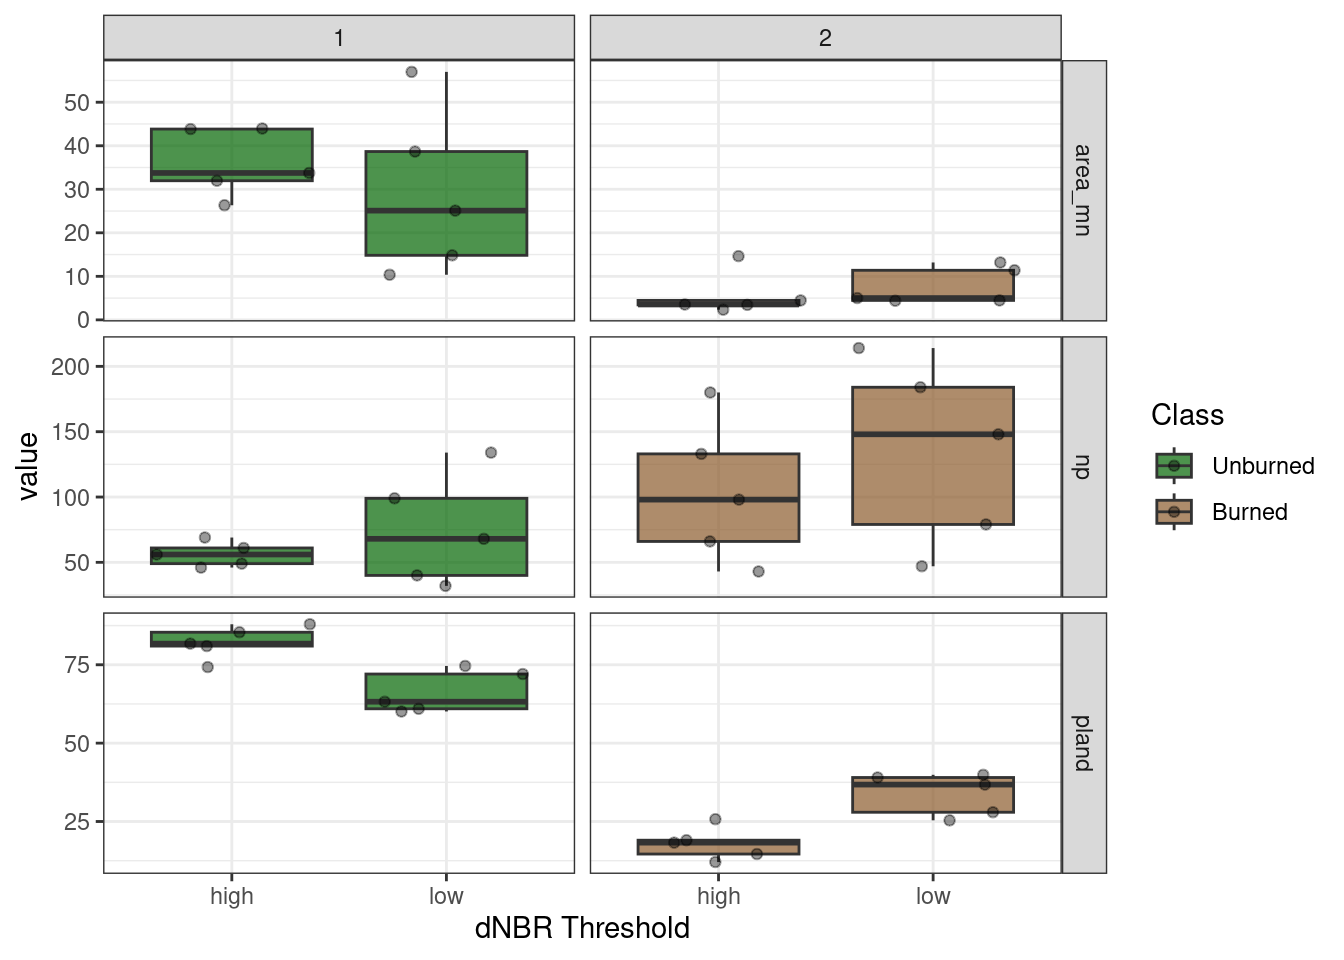
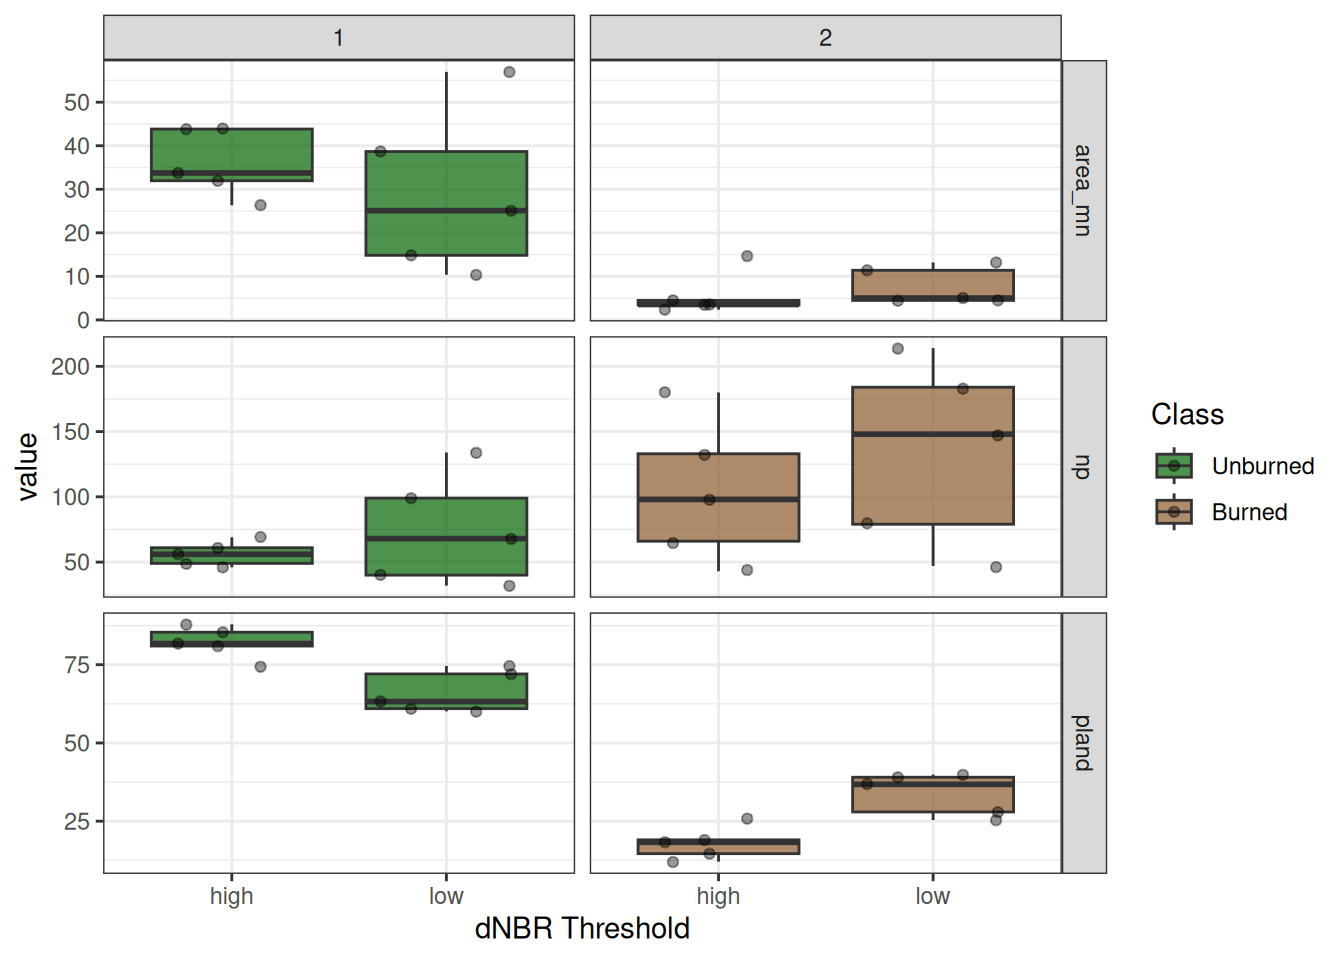
fix typos and math formula

diff --git a/index.html b/index.html
@@ -183,17 +183,17 @@ window.Quarto = {
 
 <section id="introducing-landscape-patterns" class="level1">
 <h1>Introducing landscape patterns</h1>
-<p>Landscape patterns and their quantification has received considerable attention since the early 1980’s. The quantification of landscape patterns came from the need to objectively describe landscapes that humans assess subjectively as, for example, “clumpy”, “dispersed”, “random”, “diverse”, “fragmented”, or “connected” (<span class="citation" data-cites="gergel2017">Gergel and Turner (<a href="#ref-gergel2017" role="doc-biblioref">2017</a>)</span>). Quantification of pattern is fundamental to many of the relationships we seek to understand in landscape ecology, because they emphasize the interactions among spatial patterns and ecological processes. Therefore, a basic familiarity with the most commonly used ways to quantify these patterns is extremely important (<span class="citation" data-cites="gergel2017">Gergel and Turner (<a href="#ref-gergel2017" role="doc-biblioref">2017</a>)</span>). In general, we refer to these as <strong>landscape metrics</strong>. Landscape metrics allow us to objectively describe landscape patterns at various spatial scales based on certain observable features, which enable analyses such as:</p>
+<p>Landscape patterns and their quantification have received considerable attention since the early 1980s. The quantification of landscape patterns came from the need to objectively describe landscapes that humans assess subjectively as, for example, “clumpy”, “dispersed”, “random”, “diverse”, “fragmented”, or “connected” (<span class="citation" data-cites="gergel2017">Gergel and Turner (<a href="#ref-gergel2017" role="doc-biblioref">2017</a>)</span>). Quantification of pattern is fundamental to many of the relationships we seek to understand in landscape ecology, because they emphasize the interactions among spatial patterns and ecological processes. Therefore, a basic familiarity with the most commonly used ways to quantify these patterns is extremely important (<span class="citation" data-cites="gergel2017">Gergel and Turner (<a href="#ref-gergel2017" role="doc-biblioref">2017</a>)</span>). In general, we refer to these as <strong>landscape metrics</strong>. Landscape metrics allow us to objectively describe landscape patterns at various spatial scales based on certain observable features, which enable analyses such as:</p>
 <ul>
 <li>Assessment of landscape pattern changes over time</li>
 <li>Making future predictions regarding landscape pattern changes</li>
-<li>Determining if two landscape differ based on their patterns</li>
-<li>Evaluating alternative lands management strategies in terms of the landscape patterns that may result</li>
+<li>Determining if two landscapes differ based on their patterns</li>
+<li>Evaluating alternative land management strategies in terms of the landscape patterns that may result</li>
 <li>Determining if a certain pattern is characteristic of a specific disturbance</li>
 </ul>
-<p>In particular, in this lab we will take advantage of both R- and python-based libraries to objectively quantify landscape patterns to answer specific research questions. Both these libraries are inspired by <em>FRAGSTATS</em> (<span class="citation" data-cites="mcgarigal1995">McGarigal (<a href="#ref-mcgarigal1995" role="doc-biblioref">1995</a>)</span>). More in details, we will explore the use of landscape metrics to compare spatial patterns created by 5 different fires (<a href="#fig-fires" class="quarto-xref">Figure&nbsp;6</a>). Furthermore, we will focus on comparing spatial patterns of fires of different severity to see how they produce different spatial responses on the landscape.</p>
-<p>We mentioned that landscape metrics can be calculated at different spatial scales. In general, we recognize three distinct levels of organization: <strong>patch</strong>, <strong>class</strong>, and <strong>landscape</strong>. Path-level metrics refer to metrics calculated over a single contiguous unit, for example a single group of neighboring pixels belonging to the same group (e.g.&nbsp;coniferous land cover). Class-level metrics represent metrics that are averaged across all patches belonging to the same broader category. For instance, calculating the class-level “patch area” of a landscape characterized by 10 coniferous patches, means calculating the individual patch area of each coniferous patch and averaging their values. Finally, metrics calculated at the landscape level are summary aggregates of patch- or class-level metric regardless of the individual classes.</p>
-<p>Another important concept to understand is <strong>neighboring</strong>. When working with landscape metrics, individual pixels and their neighbors are both important. Take for example <a href="#fig-nn" class="quarto-xref">Figure&nbsp;1</a>, we are working with the central pixel marked with a cross. How do we define a uniform patch or region? Do we consider only the pixels north-south and west-east, or do we also consider the diagonals? This is important because by changing the neighboring rule we change how patches, and therefore metrics, are interpreted and calculated. For example, using a 4-neighboring rule, the patch would have an areas of 5, whereas using an 8-neighboring rule it would have an area of 9!</p>
+<p>In particular, in this lab we will take advantage of both R- and python-based libraries to objectively quantify landscape patterns to answer specific research questions. Both these libraries are inspired by <em>FRAGSTATS</em> (<span class="citation" data-cites="mcgarigal1995">McGarigal (<a href="#ref-mcgarigal1995" role="doc-biblioref">1995</a>)</span>). In more detail, we will explore the use of landscape metrics to compare spatial patterns created by 5 different fires (<a href="#fig-fires" class="quarto-xref">Figure&nbsp;6</a>). Furthermore, we will focus on comparing spatial patterns of fires of different severity to see how they produce different spatial responses on the landscape.</p>
+<p>We mentioned that landscape metrics can be calculated at different spatial scales. In general, we recognize three distinct levels of organization: <strong>patch</strong>, <strong>class</strong>, and <strong>landscape</strong>. Patch-level metrics refer to metrics calculated over a single contiguous unit, for example a single group of neighboring pixels belonging to the same group (e.g.&nbsp;coniferous land cover). Class-level metrics represent metrics that are averaged across all patches belonging to the same broader category. For instance, calculating the class-level “patch area” of a landscape characterized by 10 coniferous patches, means calculating the individual patch area of each coniferous patch and averaging their values. Finally, metrics calculated at the landscape level are summary aggregates of patch- or class-level metrics regardless of the individual classes.</p>
+<p>Another important concept to understand is <strong>neighboring</strong>. When working with landscape metrics, individual pixels and their neighbors are both important. Take for example <a href="#fig-nn" class="quarto-xref">Figure&nbsp;1</a>, we are working with the central pixel marked with a cross. How do we define a uniform patch or region? Do we consider only the pixels north-south and west-east, or do we also consider the diagonals? This is important because by changing the neighboring rule we change how patches, and therefore metrics, are interpreted and calculated. For example, using a 4-neighboring rule, the patch would have an area of 5, whereas using an 8-neighboring rule it would have an area of 9!</p>
 <div id="fig-nn" class="quarto-float quarto-figure quarto-figure-center anchored">
 <figure class="quarto-float quarto-float-fig figure">
 <div aria-describedby="fig-nn-caption-0ceaefa1-69ba-4598-a22c-09a6ac19f8ca">
@@ -204,7 +204,7 @@ Figure&nbsp;1: Illustration of 2 neighboring rules: (left) 4-neighbors, (right) 
 </figcaption>
 </figure>
 </div>
-<p>Note that one core assumption that these and other methods take is that the input data source is a 2-dimensional (2D) <strong>categorical raster</strong>. A categorical raster is a raster product that describes homogeneous landscape features with integer numbers (<a href="#fig-lands" class="quarto-xref">Figure&nbsp;2</a>). However, it is often the case that you’d need to convert your <strong>continuous raster</strong> product into a categorical raster. The simplest way to do it is to define a threshold value where pixels above or below such threshold are assigned a class or another. Conversion is a crucial step in the calculation of landscape patterns, because the selection of the threshold value would affect the quantification of the landscape patterns of interest. We will talk more about thresholding later on.</p>
+<p>Note that one core assumption that these and other methods take is that the input data source is a 2-dimensional (2D) <strong>categorical raster</strong>. A categorical raster is a raster product that describes homogeneous landscape features with integer numbers (<a href="#fig-lands" class="quarto-xref">Figure&nbsp;2</a>). However, it is often the case that you’d need to convert your <strong>continuous raster</strong> product into a categorical raster. The simplest way to do it is to define a threshold value where pixels above or below such threshold are assigned to one class or another. Conversion is a crucial step in the calculation of landscape patterns, because the selection of the threshold value would affect the quantification of the landscape patterns of interest. We will talk more about thresholding later on.</p>
 <div id="fig-lands" class="quarto-float quarto-figure quarto-figure-center anchored">
 <figure class="quarto-float quarto-float-fig figure">
 <div aria-describedby="fig-lands-caption-0ceaefa1-69ba-4598-a22c-09a6ac19f8ca">
@@ -268,7 +268,7 @@ Figure&nbsp;5: Selecting the landscape metrics
 </section>
 <section id="exploring-basic-landscape-metrics" class="level1">
 <h1>Exploring basic landscape metrics</h1>
-<p>Here, we will calculate landscape metrics from a categorical fire severity map using both R- and python-based solution. In R we are using the <code>landscapemetrics</code> library (<span class="citation" data-cites="hesselbarth2019">Hesselbarth et al. (<a href="#ref-hesselbarth2019" role="doc-biblioref">2019</a>)</span>), in python <code>pylandstats</code> (<span class="citation" data-cites="bosch2019">Bosch (<a href="#ref-bosch2019" role="doc-biblioref">2019</a>)</span>). Our objective is to describe landscape patterns created by 5 fire events of varying severity in Greater Yellowstone. Let’s start by importing libraries and data. In the following chunks, only the R code is evaluated because is more user-friendly than the python alternative as of today.</p>
+<p>Here, we will calculate landscape metrics from a categorical fire severity map using both R- and python-based solutions. In R we are using the <code>landscapemetrics</code> library (<span class="citation" data-cites="hesselbarth2019">Hesselbarth et al. (<a href="#ref-hesselbarth2019" role="doc-biblioref">2019</a>)</span>), in python <code>pylandstats</code> (<span class="citation" data-cites="bosch2019">Bosch (<a href="#ref-bosch2019" role="doc-biblioref">2019</a>)</span>). Our objective is to describe landscape patterns created by 5 fire events of varying severity in Greater Yellowstone. Let’s start by importing libraries and data. In the following chunks, only the R code is evaluated because it is more user-friendly than the python alternative as of today.</p>
 <div class="cell">
 <details class="code-fold">
 <summary>Code</summary>
@@ -314,7 +314,7 @@ Figure&nbsp;5: Selecting the landscape metrics
 <span id="cb2-11"><a href="#cb2-11" aria-hidden="true" tabindex="-1"></a>flagged <span class="ot">&lt;-</span> <span class="fu">lapply</span>(fires, <span class="cf">function</span>(f) {</span>
 <span id="cb2-12"><a href="#cb2-12" aria-hidden="true" tabindex="-1"></a>  r <span class="ot">&lt;-</span> <span class="fu">rast</span>(f)</span>
 <span id="cb2-13"><a href="#cb2-13" aria-hidden="true" tabindex="-1"></a>  <span class="fu">NAflag</span>(r) <span class="ot">&lt;-</span> <span class="dv">99</span></span>
-<span id="cb2-14"><a href="#cb2-14" aria-hidden="true" tabindex="-1"></a>  <span class="fu">crs</span>(r) <span class="ot">&lt;-</span> <span class="st">'epsg:32612'</span>  <span class="co"># manually assing CRS because originally missing</span></span>
+<span id="cb2-14"><a href="#cb2-14" aria-hidden="true" tabindex="-1"></a>  <span class="fu">crs</span>(r) <span class="ot">&lt;-</span> <span class="st">'epsg:32612'</span>  <span class="co"># manually assign CRS because originally missing</span></span>
 <span id="cb2-15"><a href="#cb2-15" aria-hidden="true" tabindex="-1"></a>  <span class="fu">levels</span>(r) <span class="ot">&lt;-</span> <span class="fu">c</span>(<span class="st">"nodata"</span>, <span class="st">"unburned"</span>, <span class="st">"burned"</span>)</span>
 <span id="cb2-16"><a href="#cb2-16" aria-hidden="true" tabindex="-1"></a>  <span class="fu">return</span>(r)</span>
 <span id="cb2-17"><a href="#cb2-17" aria-hidden="true" tabindex="-1"></a>})</span>
@@ -345,19 +345,19 @@ Figure&nbsp;6: Map of 5 fires in Greater Yellowstone of different severity
 <span id="cb3-2"><a href="#cb3-2" aria-hidden="true" tabindex="-1"></a>flagged[[<span class="dv">1</span>]]</span></code><button title="Copy to Clipboard" class="code-copy-button"><i class="bi"></i></button></pre></div>
 </details>
 <div class="cell-output cell-output-stdout">
-<pre><code>class       : SpatRaster 
-dimensions  : 165, 165, 1  (nrow, ncol, nlyr)
+<pre><code>class       : SpatRaster
+size        : 165, 165, 1  (nrow, ncol, nlyr)
 resolution  : 30, 30  (x, y)
 extent      : 0, 4950, 0, 4950  (xmin, xmax, ymin, ymax)
-coord. ref. : WGS 84 / UTM zone 12N (EPSG:32612) 
-source      : fire_1_high.tif 
-categories  : category 
-name        : fire_1_high 
-min value   :          NA 
-max value   :          NA </code></pre>
+coord. ref. : WGS 84 / UTM zone 12N (EPSG:32612)
+source      : fire_1_high.tif
+categories  : category
+name        : fire_1_high
+min value   :          ? 
+max value   :          ? </code></pre>
 </div>
 </div>
-<p>Note how we have 2 classes and a “nodata” class. Class 1 represents unburned areas and class 2 represents burned areas. Class 99 is our nodata class. Now that we have some basic information on the landscape, we should check that everything is right. That is, check that the coordinate reference system (CRS) is right, and that we have the right number of classes. This is pretty straighforward. You would notice that the rasters have a CRS = EPSG:32612. In python you can check the CRS using <code>src.spatial_ref</code>. In R, the <code>landscapemetrics</code> package offers the <code>check_landscape</code> function. So just type <code>check_landscape(flagged[[1]])</code> to see if the first raster is ready to go.</p>
+<p>Note how we have 2 classes and a “nodata” class. Class 1 represents unburned areas and class 2 represents burned areas. Class 99 is our nodata class. Now that we have some basic information on the landscape, we should check that everything is right. That is, check that the coordinate reference system (CRS) is right, and that we have the right number of classes. This is pretty straightforward. You would notice that the rasters have a CRS = EPSG:32612. In python you can check the CRS using <code>src.spatial_ref</code>. In R, the <code>landscapemetrics</code> package offers the <code>check_landscape</code> function. So just type <code>check_landscape(flagged[[1]])</code> to see if the first raster is ready to go.</p>
 <div class="cell">
 <details class="code-fold">
 <summary>Code</summary>
@@ -371,8 +371,8 @@ max value   :          NA </code></pre>
 <p>We see that the raster is ready to go! You can also iteratively check every layer using a loop.</p>
 <section id="list-available-metrics" class="level2">
 <h2 class="anchored" data-anchor-id="list-available-metrics">List available metrics</h2>
-<p>The <code>landscapemetrics</code> package includes a function to show you all available metrics and filter them according to the characteristics of the landscape they describe. For help, have a look at the help page of the <code>list_lsm()</code> function. You would see the acronym and full name of all the available metrics, the type, and the level they are applied to. For example. we can calculate metrics at the <code>patch</code>-, <code>class</code>-, or <code>landscape</code> level. The syntax is pretty simple. All metrics start with <code>lsm_</code>, followed by the level (<code>p/c/l</code>), and the function name. Some of these metrics have other parameters that can be passed (e.g.&nbsp;neighboring rule). In some cases, legacy parameters are carried forward, so you will end up with metrics that have both a <code>neighbors</code> and <code>direction</code> parameters. They mean the same thing, but for legacy purposes they are retained to this point. In case, give the same value to both to be sure they are interpreted as you would expect.</p>
-<p>With <code>pylandstats</code> is a bit more tricky. You’d need to explore the online documentation or the properties of a <code>Landscape</code> object as it is generated using <code>landscape = pls.Landscape()</code>. By using <code>dir(landscape)</code> you can see the list of available properties associated with the object. However, for a more detailed description, refer to the <a href="https://pylandstats.readthedocs.io/en/v2.3.0/index.html">online documentation</a>.</p>
+<p>The <code>landscapemetrics</code> package includes a function to show you all available metrics and filter them according to the characteristics of the landscape they describe. For help, have a look at the help page of the <code>list_lsm()</code> function. You would see the acronym and full name of all the available metrics, the type, and the level they are applied to. For example, we can calculate metrics at the <code>patch</code>-, <code>class</code>-, or <code>landscape</code> level. The syntax is pretty simple. All metrics start with <code>lsm_</code>, followed by the level (<code>p/c/l</code>), and the function name. Some of these metrics have other parameters that can be passed (e.g.&nbsp;neighboring rule). In some cases, legacy parameters are carried forward, so you will end up with metrics that have both a <code>neighbors</code> and a <code>direction</code> parameter. They mean the same thing, but for legacy purposes they are retained to this point. In that case, give the same value to both to be sure they are interpreted as you would expect.</p>
+<p>With <code>pylandstats</code> it is a bit more tricky. You’d need to explore the online documentation or the properties of a <code>Landscape</code> object as it is generated using <code>landscape = pls.Landscape()</code>. By using <code>dir(landscape)</code> you can see the list of available properties associated with the object. However, for a more detailed description, refer to the <a href="https://pylandstats.readthedocs.io/en/v2.3.0/index.html">online documentation</a>.</p>
 </section>
 <section id="metric-calculation" class="level2">
 <h2 class="anchored" data-anchor-id="metric-calculation">Metric calculation</h2>
@@ -405,7 +405,7 @@ max value   :          NA </code></pre>
 # ℹ 105 more rows</code></pre>
 </div>
 </div>
-<p>Here we see that the two functions output the area associated to each patch in the first landscape. In total, we have 115 patches identified using a 8-neighboring rule. Note that the python output is 0-indexed, whereas the R output is 1-indexed. The area values are unitless, so care must be taken when interpreting these metrics (depends on the CRS). We also see that there is a <code>class</code> column. This matches the length of our classes (1-2), so within each class, we have a certain number of patches. In particular, 49 patches for class 1 and 66 for class 2.</p>
+<p>Here we see that the two functions output the area associated to each patch in the first landscape. In total, we have 115 patches identified using an 8-neighboring rule. Note that the python output is 0-indexed, whereas the R output is 1-indexed. The area values are unitless, so care must be taken when interpreting these metrics (depends on the CRS). We also see that there is a <code>class</code> column. This matches the length of our classes (1-2), so within each class, we have a certain number of patches. In particular, 49 patches for class 1 and 66 for class 2.</p>
 <p>A great feature about the R library is that all metrics are returned in the same format. You will always have a tibble with the same number of columns and naming such that you can easily combine the output of different metrics into a single dataframe. In python, it’s a bit more complicated to do as values are either returned as dataframes or constants.</p>
 <p>What if we wanted to extract multiple metrics at a time? That’s another easy task! We can use the <code>calculate_lsm</code> function in the <code>landscapemetrics</code> package to calculate multiple metrics for a specific “level” and “type” (as defined by <code>lsm_list()</code>) or we can specify the <code>what</code> parameter for an ad-hoc list of metrics of interest.</p>
 <div class="cell">
@@ -483,13 +483,13 @@ max value   :          NA </code></pre>
 </section>
 <section id="work-on-your-own" class="level2">
 <h2 class="anchored" data-anchor-id="work-on-your-own">Work on your own</h2>
-<p>Now that you have a sense of how landscape metrics work and how they can be calculated, it’s your time to explore some of these metrics in more depth! You are now tasked to quantify fire patterns using a series of landscape metrics we provide in addition to a set of metrics <em>of your choice</em>. Choosing which metrics to use could be a daunting task, but remember that a long list of metrics may result redundant as many metrics report values that are more or less correlated with each other. For example, a large patch is also likely to have a large perimeter, therefore you would select either one or another, not both. Otherwise, you can work with metrics that summarize the relationship between the two, for example using the perimeter-to-area ratio.</p>
+<p>Now that you have a sense of how landscape metrics work and how they can be calculated, it’s your time to explore some of these metrics in more depth! You are now tasked to quantify fire patterns using a series of landscape metrics we provide in addition to a set of metrics <em>of your choice</em>. Choosing which metrics to use could be a daunting task, but remember that a long list of metrics may prove redundant as many metrics report values that are more or less correlated with each other. For example, a large patch is also likely to have a large perimeter, therefore you would select either one or another, not both. Otherwise, you can work with metrics that summarize the relationship between the two, for example using the perimeter-to-area ratio.</p>
 <p>We think that a good initial approach to quantifying spatial patterns of fire is by looking at the shape of the burned patches, their number, size, the proportion of the landscape they occupy, and how they are distributed in relation to one another (e.g.&nbsp;clumped/sparse). In particular, we are interested in looking at the following metrics (using the <code>landscapemetrics</code> package as reference):</p>
 <ul>
 <li><p>Landscape-level metrics: edge density (ED) and contagion (CONTAG)</p></li>
 <li><p>Class-level metrics: proportion of landscape occupied (PLAND), number of patches (NP), and mean patch size (AREA_MN)</p></li>
 </ul>
-<p>To the list of this metrics, we ask you to provide 5 more additional ones to better explore the spatial pattern of fire in a way we are not able to using the metrics we proposed. Calculate these metrics for all fire rasters you have. This can be accomplished using a simple <code>for loop</code> in Python or by feeding a list of rasters or a raster stack to the <code>calculate_lsm</code> function in R. Use a 8-neighboring rule for your metrics if applicable. You can conduct the analysis in the language you are the most comfortable with. Your coding skills are not subject to any grading in our labs.</p>
+<p>To this list of metrics, we ask you to provide 5 additional ones to better explore the spatial pattern of fire in a way we are not able to using the metrics we proposed. Calculate these metrics for all fire rasters you have. This can be accomplished using a simple <code>for loop</code> in Python or by feeding a list of rasters or a raster stack to the <code>calculate_lsm</code> function in R. Use an 8-neighboring rule for your metrics if applicable. You can conduct the analysis in the language you are the most comfortable with. Your coding skills are not subject to any grading in our labs.</p>
 <div class="callout callout-style-default callout-tip callout-titled">
 <div class="callout-header d-flex align-content-center">
 <div class="callout-icon-container">
@@ -511,9 +511,9 @@ Tip
 <h1>Working with continuous data</h1>
 <p>One thing we stressed at the beginning is that landscape metrics can only be calculated on categorical rasters. But what if we started with a continuous raster where pixels can take any value, say, from 1 to 2? That would be a problem. One simple workaround is establishing a <strong>threshold</strong> such that values above or below such threshold are assigned to a class or another. However, the way you set a threshold will influence the output you get, similarly to setting the neighboring rule. We have already encountered this threshold at the beginning of the lab, but we glossed over it.</p>
 <p>In our lab example, fires can be detected using satellite-derived indexes that describe how “burned” a pixel is based on its spectral properties. In simple words, we look at how “bright” the pixel is in 2 wavelengths and we compare these values over time (<a href="#eq-dnbr" class="quarto-xref">Equation&nbsp;1</a>). An increase in dNBR may be indicative of a fire. The higher dNBR, the higher the severity of the fire.</p>
-<p><span class="math display">\[ NBR = \frac{(NIR - SWIR2)}{(NIR + SWIR2)} ∈ (0, 1) \]</span> <span id="eq-dnbr"><span class="math display">\[ dNBR = (PreFireNBR - PostFireNBR) ∈ (0, 1)  \tag{1}\]</span></span></p>
-<p>Where NIR is the near infrared wavelength and SWIR is the short-wave infrared wavelength.</p>
-<p>If you take a closer look at the metrics we computed earlier and plot them (<a href="#fig-boxes" class="quarto-xref">Figure&nbsp;7</a>), you would notice that we have 2 threshold values, specifically for dNBR. A low threshold indicates that fires are characterized early, or when they are less severe. A higher threshold only characterizes high severity fires. A low threshold value results in a higher contagion value, indicating a higher aggregation level than high severity fires (mostly because we include lower severity fires as well), as well as less complex shapes as indicated by the lower edge density values. Similarly, class-level metrics indicate larger and more patches on average for the burned class. Inverse trends are expected for the unburned area class.</p>
+<p><span class="math display">\[ NBR = \frac{(NIR - SWIR2)}{(NIR + SWIR2)} ∈ [-1, 1] \]</span> <span id="eq-dnbr"><span class="math display">\[ dNBR = (PreFireNBR - PostFireNBR) ∈ [-2, 2]  \tag{1}\]</span></span></p>
+<p>Where NIR is the near infrared wavelength and SWIR2 is the short-wave infrared wavelength.</p>
+<p>If you take a closer look at the metrics we computed earlier and plot them (<a href="#fig-boxes" class="quarto-xref">Figure&nbsp;7</a>), you would notice that we have 2 threshold values, specifically for dNBR. A low threshold indicates that fires are characterized early, or when they are less severe. A higher threshold only characterizes high severity fires. A low threshold value results in a higher contagion value, indicating a higher aggregation level than high severity fires (mostly because we include lower severity fires as well), as well as less complex shapes as indicated by the lower edge density values. Similarly, class-level metrics indicate larger and more numerous patches on average for the burned class. Inverse trends are expected for the unburned area class.</p>
 <div class="cell" data-layout-nrow="2">
 <details class="code-fold">
 <summary>Code</summary>
@@ -609,7 +609,7 @@ Figure&nbsp;7: Plotted landscape-level and class-level metrics for fire under 2 
 </figure>
 </div>
 </div>
-<p><strong><em>Question 3: Briefly describe using bullet points 3 main differences in spatial patterns that where characterized by the low vs.&nbsp;high dNBR thresholds. Refer to your 5 new landscape metrics in the answer.</em></strong></p>
+<p><strong><em>Question 3: Briefly describe using bullet points 3 main differences in spatial patterns that were characterized by the low vs.&nbsp;high dNBR thresholds. Refer to your 5 new landscape metrics in the answer.</em></strong></p>
 <p><strong><em>Question 4: Briefly describe how a change in neighboring rule may affect the quantitative estimates of burn patterns. Did all metrics change in the same way?</em></strong></p>
 <p><strong><em>Question 5: How does the choice of the landscape metrics and threshold affect the ecological interpretation of the burned patterns on the landscape?</em></strong></p>
 </section>